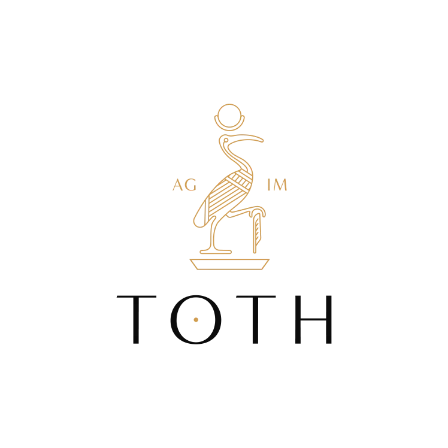
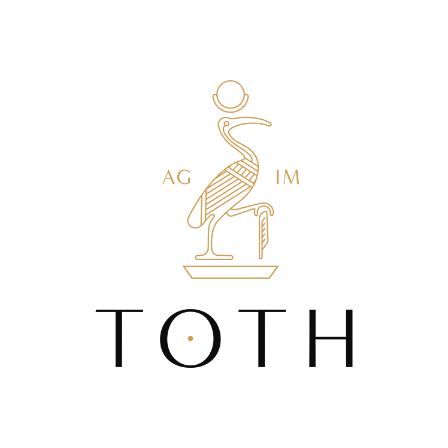
Toth atualizada e a ordem das empresas passa a ser a dele
Ele reexportou a Toth um pouco maior e definiu a sequência: a mesma dos
arquivos, Frame 1 a 7. Fica inovabra, Rede Ronaldo Games, Pen Education,
Khanum, Toth, as7 Comunicação e Whido.

Mesmo preparo de sempre, que é reduzir as sete de 1496 para 448 e nada mais.

Sete logos em 74 KB, todas com `object-fit: contain` e sem distorção.

diff --git a/src/data/about.ts b/src/data/about.ts
@@ -94,13 +94,14 @@ export const about = {
   */
   companies: {
     label: "Empresas com quem trabalhei",
+    /* A ordem é a dele, a mesma dos arquivos Frame 1 a 7. */
     items: [
       { name: "inovabra", logo: "/empresas/inovabra.webp" },
-      { name: "Khanum", logo: "/empresas/khanum.webp" },
-      { name: "Pen Education", logo: "/empresas/pen-education.webp" },
       { name: "Rede Ronaldo Games", logo: "/empresas/rede-ronaldo-games.webp" },
-      { name: "as7 Comunicação", logo: "/empresas/as7.webp" },
+      { name: "Pen Education", logo: "/empresas/pen-education.webp" },
+      { name: "Khanum", logo: "/empresas/khanum.webp" },
       { name: "Toth Innovation Marketing", logo: "/empresas/toth.webp" },
+      { name: "as7 Comunicação", logo: "/empresas/as7.webp" },
       { name: "Whido", logo: "/empresas/whido.webp" },
     ] as { name: string; logo: string | null }[],
   },
